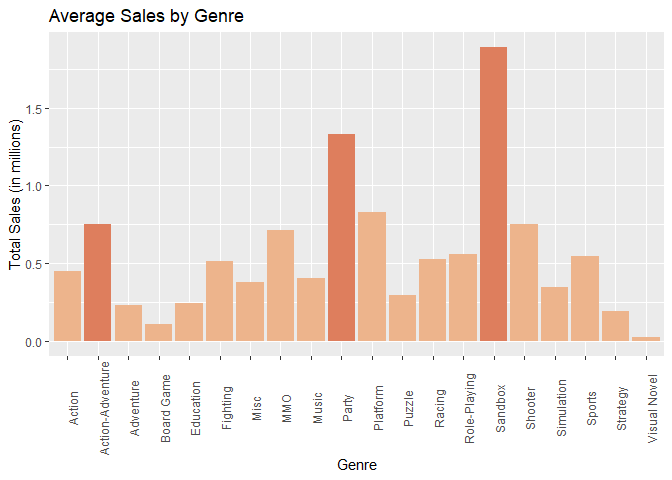
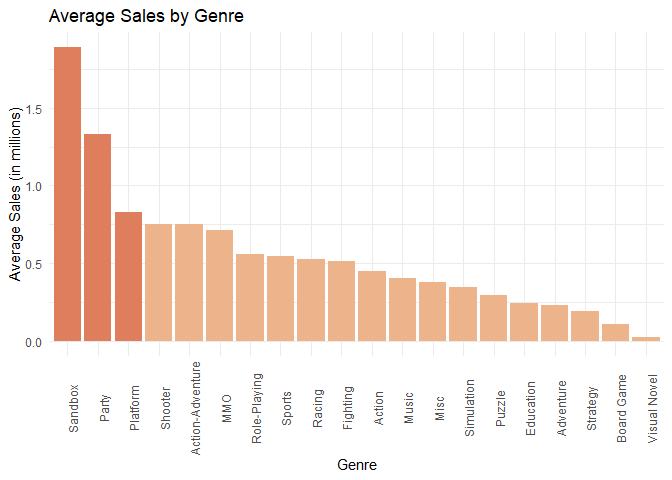
updated Average Sales by Genre graph

diff --git a/README.md b/README.md
@@ -356,11 +356,32 @@ the sub-genre named after it. Source:
 #### How does Average Sales affect Popular Genres?
 
 ``` r
-q1_data %>% mutate(highlight = if_else(Genre %in% c("Sandbox", "Party", "Action-Adventure"), "yes", "no")) %>% ggplot( aes(x = Genre, y=Global_Sales, fill=highlight)) +
-  geom_bar(stat = "summary", fun = "mean", show.legend=FALSE) +
+# q1_data %>% mutate(highlight = if_else(Genre %in% c("Sandbox", "Party", "Action-Adventure"), "yes", "no")) %>% ggplot( aes(x = Genre, y=Global_Sales, fill=highlight)) +
+#   geom_bar(stat = "summary", fun = "mean", show.legend=FALSE) +
+#   scale_fill_manual(values = highlight_colors) +
+#   theme(axis.text.x = element_text(angle = 90)) +
+#   ylab("Total Sales (in millions)") +
+#   ggtitle("Average Sales by Genre")
+
+highlight_colors <- c(
+  "yes" = "#de7e5d",    # Pastel red
+  "no"  = "#edb48c"     # Pastel peach
+)
+
+# Compute average sales per genre with highlight
+avg_sales_by_genre <- q1_data %>%
+  mutate(highlight = if_else(Genre %in% c("Sandbox", "Party", "Platform"), "yes", "no")) %>%
+  group_by(Genre, highlight) %>%
+  summarise(avg_sales = mean(Global_Sales, na.rm = TRUE), .groups = "drop")
+
+# Plot with genres ordered by average sales
+ggplot(avg_sales_by_genre, aes(x = reorder(Genre, -avg_sales), y = avg_sales, fill = highlight)) +
+  geom_col(show.legend = FALSE) +
   scale_fill_manual(values = highlight_colors) +
+  theme_minimal() +
   theme(axis.text.x = element_text(angle = 90)) +
-  ylab("Total Sales (in millions)") + 
+  xlab("Genre") +
+  ylab("Average Sales (in millions)") +
   ggtitle("Average Sales by Genre")
 ```
 
